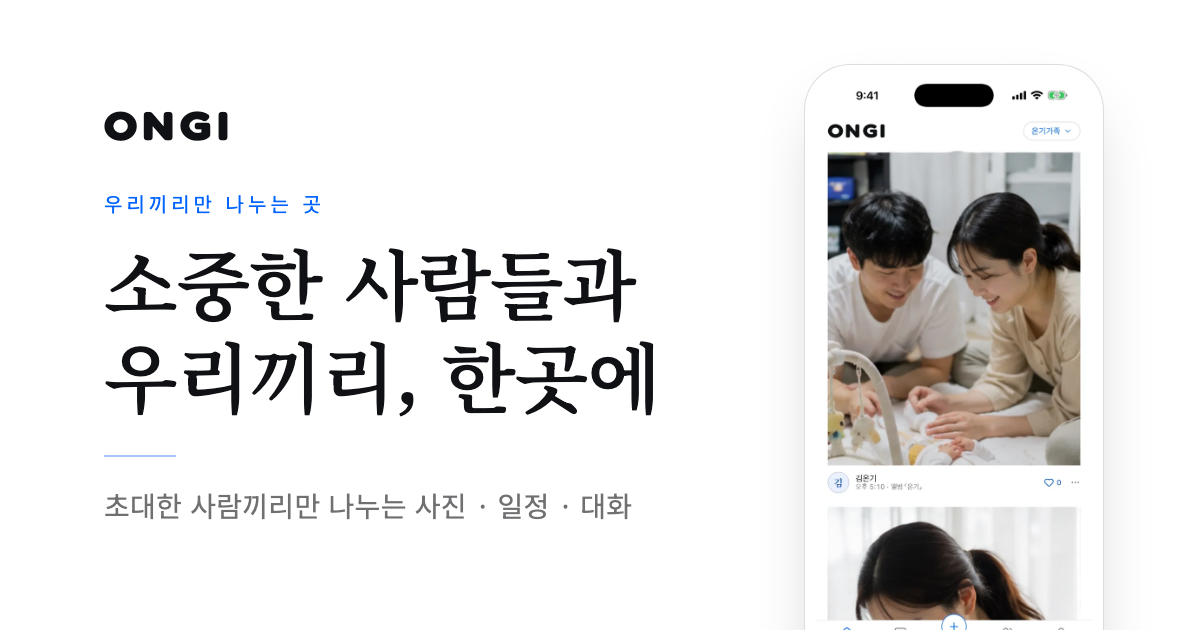
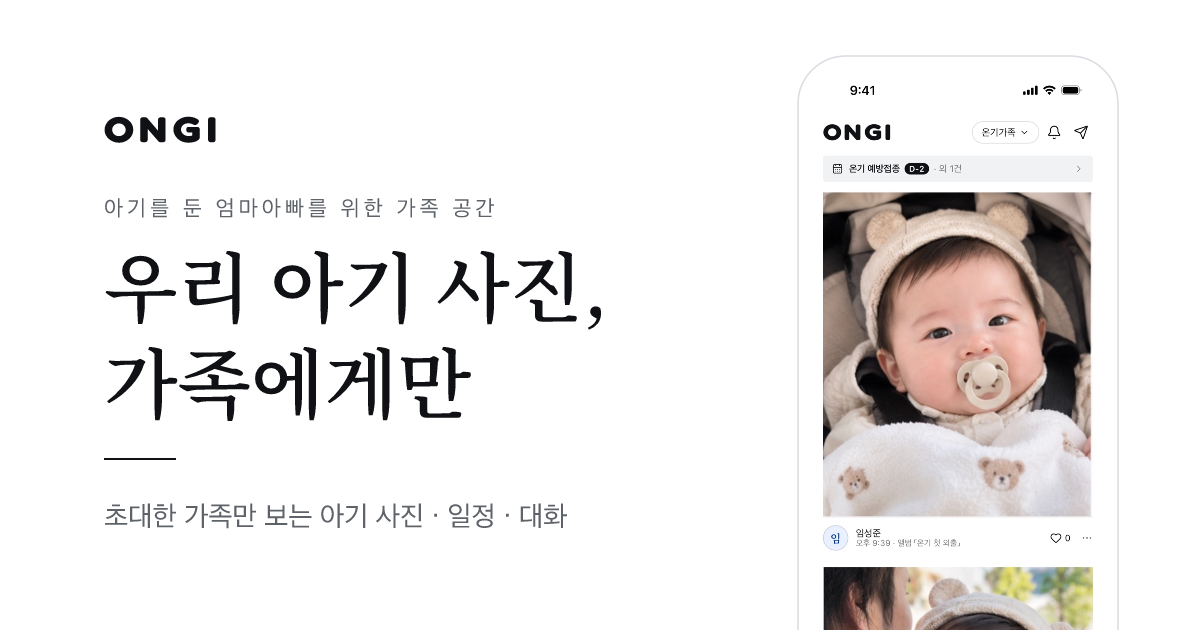
feat(landing): 아기 부모 대상으로 랜딩 재구성 — 우리 아기 사진, 가족에게만
- 구조: 히어로 → 공감 포인트 4개(묻힌다·사라진다·SNS·어르신) → 3단계 → 기능(실제 화면 3장 + 카드 5개) → 할머니 할아버지도 쉽게 → 마지막 다운로드
- 헤더: '소개' 제거, 스크롤해도 따라오는 고정 헤더. 앱 다운로드 버튼은 기기를 알아보면 그 스토어로, 아니면 다운로드 버튼으로 부드럽게 스크롤
- 색: 파란 강조색 제거, 검정·흰색 + 구역 바탕 따뜻한 회색(--color-warm)
- 스크린샷을 1.0.13 새 UI·아기 사진으로 교체 (가족 탭 초대 코드는 예시 숫자로 바꿈), 공유 미리보기 이미지 새 헤드라인으로 교체

diff --git a/src/app/page.tsx b/src/app/page.tsx
@@ -1,4 +1,4 @@
-import { CalendarDays, Heart, Images, Lock, MessageCircle, Users } from 'lucide-react';
+import { CalendarDays, Check, FolderHeart, Images, Lock, MessageCircle } from 'lucide-react';
 import type { Metadata } from 'next';
 import Image from 'next/image';
 import Link from 'next/link';
@@ -13,13 +13,38 @@ export const metadata: Metadata = {
   openGraph: { ...SITE_OPEN_GRAPH, url: '/' },
 };
 
+// 대상: 아기를 둔 엄마아빠가 조부모·친척에게 아기 사진을 나누는 것 (2026-10 재구성)
+const PAINS = [
+  ['단톡방에 올리면 금방 묻혀요', '어제 올린 사진을 다시 보려면 한참을 올려야 해요. 100일 사진이 어디 있는지 아무도 몰라요.'],
+  ['시간이 지나면 사라져요', '메신저 사진은 저장 기간이 지나면 열리지 않아요. 돌잔치 때 백일 사진을 찾으면 이미 없어요.'],
+  ['SNS는 남들 눈이 신경 쓰여요', '아기 얼굴을 모르는 사람에게까지 보여주고 싶진 않아요. 가족만 보면 충분해요.'],
+  ['할머니 할아버지는 앱이 어려워요', '가입하고 설정하는 것부터 막혀요. 그래서 결국 사진을 하나하나 보내드리게 돼요.'],
+];
+
+const STEPS = [
+  ['1', '엄마아빠가 공간을 만들고 올려요', '"우리 아기"처럼 이름을 붙이고, 오늘 찍은 사진과 영상을 한 번에 올려요.'],
+  ['2', '가족에게 초대 코드를 보내요', '메신저로 코드를 보내면, 가족은 앱을 받고 코드만 넣으면 끝이에요.'],
+  ['3', '가족은 따뜻해요와 한마디를 남겨요', '멀리 있는 할머니도 사진 한 장에 마음을 남겨요. 좋아요 대신 "따뜻해요".'],
+];
+
+const SHOTS = [
+  ['/landing/feed-smile.jpg', '온기 앱 홈 피드 — 아빠 품에서 웃는 아기', '오늘의 한 장이 차곡차곡', '올린 순서대로 날짜순으로 쌓여요.'],
+  ['/landing/feed-first-birthday.jpg', '온기 앱 홈 피드 — 첫돌 사진', '백일·돌도 한곳에', '특별한 날은 앨범으로 나눠 담아요.'],
+  ['/landing/schedule.jpg', '온기 앱 가족 일정 — 예방접종 일정이 등록된 달력', '예방접종·기념일 달력', '등록하면 가족이 함께 알림을 받아요.'],
+];
+
 const FEATURES = [
-  { Icon: Users, title: '초대한 사람만 들어와요', body: '초대 코드로만 들어올 수 있어요. 가족, 커플, 친구 모임 — 공간을 여러 개 만들어 따로 나눠요.' },
-  { Icon: Images, title: '우리끼리 사진첩', body: '사진과 영상을 한 번에 올리면 날짜순으로 쌓이고, 여행·기념일 앨범으로 정리돼요.' },
-  { Icon: MessageCircle, title: '1:1도, 여럿이서도 대화', body: '공간 사람과 바로 대화해요. 다른 공간 사람도 한 방에 초대하고, 누가 읽었는지 바로 보여요.' },
-  { Icon: CalendarDays, title: '함께 챙기는 일정', body: '생일, 기념일, 모임 날짜를 등록하면 함께 알림을 받아요. 음력·매년 반복도 돼요.' },
-  { Icon: Heart, title: '따뜻해요와 한마디', body: '멀리 있어도 사진 한 장에 마음을 남겨요. 좋아요 대신 "따뜻해요".' },
-  { Icon: Lock, title: '안심하고 나누기', body: '올린 사진과 대화는 공간 밖으로 공개되지 않고, 탈퇴하면 올린 사진이 삭제돼요.' },
+  { Icon: Images, title: '성장 기록이 날짜순으로', body: '올린 순서대로 하루하루 쌓여요. 뒤집기, 첫 이유식, 첫걸음을 나중에 다시 찾기 쉬워요. 영상도 함께 올려요.' },
+  { Icon: FolderHeart, title: '백일·돌 앨범', body: '백일, 돌잔치, 첫 여행처럼 특별한 날은 앨범으로 나눠 담아요. 가족 누구나 앨범에서 바로 찾아봐요.' },
+  { Icon: CalendarDays, title: '예방접종·기념일 알림', body: '백일, 돌, 예방접종 날짜를 등록하면 가족이 함께 알림을 받아요. 음력 생일과 매년 반복도 돼요.' },
+  { Icon: MessageCircle, title: '가족 대화', body: '사진 아래 한마디, 1:1과 단체 대화. 누가 읽었는지 바로 보여요.' },
+  { Icon: Lock, title: '공간 밖으로는 안 보여요', body: '초대한 사람만 들어오고, 올린 사진과 대화는 공간 밖으로 공개되지 않아요. 탈퇴하면 올린 사진이 삭제돼요.' },
+];
+
+const EASY = [
+  ['초대 코드 입력만 하면 들어와요', '받은 코드를 넣으면 바로 우리 아기 공간이 열려요. 복잡한 설정이 없어요.'],
+  ['사진이 크게, 최신 순으로', '앱을 열면 오늘 올라온 아기 사진이 바로 보여요. 찾아다닐 필요가 없어요.'],
+  ['탭 다섯 개로 단순하게', '홈, 앨범, 올리기, 가족, 나. 메뉴를 헤매지 않아요.'],
 ];
 
 // 검색 엔진용 구조화 데이터 — 앱 소개(무료, iOS·Android)
@@ -35,105 +60,148 @@ const JSON_LD = {
   sameAs: [APP_STORE_URL, GOOGLE_PLAY_URL],
 };
 
+/** 폰 테두리 안에 앱 스크린샷 한 장 (원본 1206×2622 → 720×1565) */
+function PhoneShot({ src, alt, size, preload = false }: { src: string; alt: string; size: 'lg' | 'md' | 'sm'; preload?: boolean }) {
+  const frame = {
+    lg: 'w-[240px] rounded-[36px] p-2 shadow-[0_24px_60px_-24px_rgba(16,17,20,0.25)] md:w-[280px]',
+    md: 'w-[240px] rounded-[32px] p-[7px] shadow-[0_18px_44px_-20px_rgba(16,17,20,0.22)]',
+    sm: 'w-[200px] rounded-[30px] p-1.5 shadow-[0_18px_44px_-20px_rgba(16,17,20,0.22)]',
+  }[size];
+  const inner = { lg: 'rounded-[28px]', md: 'rounded-[25px]', sm: 'rounded-[24px]' }[size];
+  return (
+    <div className={`mx-auto shrink-0 border border-divider bg-white ${frame}`}>
+      <Image src={src} alt={alt} width={720} height={1565} preload={preload} sizes="280px" className={`w-full ${inner}`} />
+    </div>
+  );
+}
+
 /** 공개 랜딩 — 웹은 소개 전용, 이용은 앱에서 */
 export default function LandingPage() {
   return (
-    <div className="flex min-h-screen flex-col">
+    // break-keep: 한글이 낱말 중간에서 끊기지 않게 (예: "사라져/요")
+    <div className="flex min-h-screen flex-col break-keep">
       <script type="application/ld+json" dangerouslySetInnerHTML={{ __html: JSON.stringify(JSON_LD).replace(/</g, '\\u003c') }} />
-      <header className="mx-auto flex w-full max-w-5xl items-center justify-between px-6 py-5">
-        <span className="inline-block origin-left scale-x-[1.15] text-2xl leading-none font-bold tracking-[0.12em] text-ink [font-family:var(--font-logo),sans-serif]">ONGI</span>
-        <nav className="flex items-center gap-5 text-sm text-neutral-700" aria-label="상단 메뉴">
-          <a href="#features" className="hidden hover:text-ink sm:inline">
-            소개
-          </a>
+      {/* 스크롤해도 따라오는 헤더 — 로고와 다운로드 버튼만 */}
+      <header className="sticky top-0 z-40 border-b border-divider bg-bg/90 backdrop-blur">
+        <div className="mx-auto flex w-full max-w-5xl items-center justify-between px-6 py-3.5">
+          <span className="inline-block origin-left scale-x-[1.15] text-2xl leading-none font-bold tracking-[0.12em] text-ink [font-family:var(--font-logo),sans-serif]">ONGI</span>
           <LandingCta variant="header" />
-        </nav>
+        </div>
       </header>
 
       <main className="flex-1">
-        <section className="mx-auto grid max-w-5xl items-center gap-12 px-6 pt-14 pb-16 md:grid-cols-[1fr_auto] md:gap-16 md:pt-20 md:pb-24">
+        <section className="mx-auto grid max-w-5xl items-center gap-12 px-6 pt-12 pb-16 md:grid-cols-[1fr_auto] md:gap-16 md:pt-16 md:pb-24">
           <div className="flex flex-col items-center text-center md:items-start md:text-left">
-            <p className="mb-4 text-[11px] tracking-[0.2em] text-accent">우리끼리만 나누는 곳</p>
-            <h1 className="font-serif text-4xl leading-tight font-semibold text-ink md:text-6xl">
-              소중한 사람들과
+            <p className="mb-4 text-xs tracking-[0.18em] text-neutral-700">아기를 둔 엄마아빠를 위한 가족 공간</p>
+            <h1 className="font-serif text-4xl leading-tight font-semibold text-ink md:text-[3.25rem]">
+              우리 아기 사진,
               <br />
-              우리끼리, 한곳에
+              가족에게만
             </h1>
-            <div className="my-6 h-px w-14 bg-accent-300" />
-            <p className="max-w-xl text-base leading-7 text-muted">
-              온기는 초대한 사람만 들어올 수 있는 공간이에요. 가족, 연인, 친한 친구와 사진을 모으고, 일정을 챙기고, 대화를 나눠요.
-              밖으로는 보이지 않는 우리만의 이야기.
+            <div className="my-7 h-px w-14 bg-ink" />
+            <p className="max-w-xl text-base leading-7 text-muted md:text-[17px] md:leading-[1.75]">
+              단톡방에 올리면 금방 묻히고, 시간이 지나면 사라지는 아기 사진. 온기에 올리면 날짜순으로 차곡차곡 쌓여 언제든 다시 꺼내 볼 수 있고,
+              초대한 가족만 볼 수 있어요. 할머니 할아버지는 초대 코드 하나로 들어와요.
             </p>
-            <div id={DOWNLOAD_SECTION_ID} className="mt-8 flex flex-col items-center gap-3 sm:flex-row">
+            <div id={DOWNLOAD_SECTION_ID} className="mt-8 flex w-full scroll-mt-24 flex-col items-center gap-3 sm:w-auto sm:flex-row">
               <LandingCta variant="hero" />
             </div>
-            <p className="mt-4 text-xs text-neutral-500">Apple·카카오·구글 계정으로 3초 만에 시작해요</p>
+            <p className="mt-4 text-xs text-neutral-600">무료 · 애플·카카오·구글 계정으로 3초 만에 시작해요</p>
           </div>
-          <div className="mx-auto w-[240px] shrink-0 rounded-[36px] border border-divider bg-white p-2 shadow-[0_24px_60px_-24px_rgba(16,17,20,0.25)] md:w-[280px]">
-            <Image
-              src="/landing/01-home.webp"
-              alt="온기 앱 홈 피드 화면"
-              width={640}
-              height={1386}
-              priority
-              className="w-full rounded-[28px]"
-            />
+          <PhoneShot src="/landing/home.jpg" alt="온기 앱 홈 피드 — 아기 사진과 예방접종 일정 배너" size="lg" preload />
+        </section>
+
+        <section className="border-t border-divider bg-warm">
+          <div className="mx-auto flex max-w-5xl flex-col gap-9 px-6 py-16 md:py-[72px]">
+            <h2 className="font-serif text-2xl font-semibold text-ink md:text-3xl">이런 적 있으시죠?</h2>
+            <div className="grid gap-5 sm:grid-cols-2 lg:grid-cols-4">
+              {PAINS.map(([title, body]) => (
+                <article key={title} className="flex flex-col gap-2.5 rounded-lg border border-divider bg-bg p-6">
+                  <h3 className="font-serif text-lg font-semibold text-ink">{title}</h3>
+                  <p className="text-sm leading-[1.7] text-muted">{body}</p>
+                </article>
+              ))}
+            </div>
           </div>
         </section>
 
-        <section id="features" className="border-t border-divider bg-neutral-100/60">
-          <div className="mx-auto grid max-w-5xl gap-8 px-6 py-16 sm:grid-cols-2 lg:grid-cols-3">
-            {FEATURES.map(({ Icon, title, body }) => (
-              <article key={title} className="flex flex-col gap-3">
-                <span className="flex h-10 w-10 items-center justify-center rounded-md border border-divider bg-bg text-accent">
-                  <Icon className="h-5 w-5" strokeWidth={1.5} />
-                </span>
-                <h2 className="font-serif text-lg font-semibold text-ink">{title}</h2>
-                <p className="text-sm leading-6 text-muted">{body}</p>
-              </article>
-            ))}
-          </div>
-        </section>
-
-        <section className="mx-auto max-w-5xl px-6 py-16">
-          <div className="grid gap-10 sm:grid-cols-2 lg:grid-cols-4">
-            {[
-              ['/landing/03-album-all.webp', '모든 순간을 한눈에', '함께 올린 사진이 앨범으로 차곡차곡 모여요.'],
-              // TODO: 채팅 화면 스크린샷이 생기면 이 칸을 '우리끼리 대화' (1:1도 그룹도, 안 읽은 사람 수까지 한눈에.) 로 바꾼다
-              ['/landing/02-albums.webp', '여행·기념일 앨범 정리', '여행, 기념일, 모임을 앨범으로 나눠 담아요.'],
-              ['/landing/05-schedule.webp', '일정까지 한곳에', '기념일과 모임을 등록하고 함께 챙겨요.'],
-              ['/landing/04-family.webp', '초대 코드 하나면 끝', '코드를 보내면 바로 함께해요.'],
-            ].map(([src, title, body]) => (
-              <figure key={src} className="flex flex-col items-center gap-4">
-                <div className="w-[200px] rounded-[30px] border border-divider bg-white p-1.5 shadow-[0_18px_44px_-20px_rgba(16,17,20,0.22)]">
-                  <Image src={src} alt={title} width={640} height={1386} className="w-full rounded-[24px]" />
-                </div>
-                <figcaption className="text-center">
-                  <p className="font-serif text-base font-semibold text-ink">{title}</p>
-                  <p className="mt-1 text-sm leading-6 text-muted">{body}</p>
-                </figcaption>
-              </figure>
-            ))}
-          </div>
-        </section>
-
-        <section className="border-t border-divider">
-          <div className="mx-auto max-w-5xl px-6 py-16">
-          <div className="grid gap-10 md:grid-cols-3">
-            {[
-              ['1', '공간 만들기', '계정으로 시작하고 "우리 가족", "우리 둘", "대학 동기"처럼 이름을 붙여 공간을 만들어요.'],
-              ['2', '초대 코드 나누기', '초대 코드를 메신저로 보내면 코드 입력만으로 바로 들어와요.'],
-              ['3', '사진·일정·대화 나누기', '사진을 올리고, 일정을 챙기고, 대화를 나눠요.'],
-            ].map(([step, title, body]) => (
+        <section className="mx-auto flex max-w-5xl flex-col gap-9 px-6 py-16 md:py-[72px]">
+          <h2 className="font-serif text-2xl font-semibold text-ink md:text-3xl">온기는 이렇게 써요</h2>
+          <div className="grid gap-8 md:grid-cols-3">
+            {STEPS.map(([step, title, body]) => (
               <div key={step} className="flex gap-4">
-                <span className="font-serif text-3xl font-semibold text-accent-300">{step}</span>
+                <span className="font-serif text-4xl leading-none font-semibold text-neutral-400">{step}</span>
                 <div>
-                  <h3 className="font-serif text-base font-semibold text-ink">{title}</h3>
-                  <p className="mt-1 text-sm leading-6 text-muted">{body}</p>
+                  <h3 className="font-serif text-[17px] font-semibold text-ink">{title}</h3>
+                  <p className="mt-1.5 text-sm leading-[1.7] text-muted">{body}</p>
                 </div>
               </div>
             ))}
           </div>
+        </section>
+
+        <section className="border-t border-divider bg-warm">
+          <div className="mx-auto flex max-w-5xl flex-col gap-10 px-6 py-16 md:py-[72px]">
+            <div className="flex flex-col gap-2.5">
+              <h2 className="font-serif text-2xl font-semibold text-ink md:text-3xl">아기의 하루를 담는 데 필요한 것만</h2>
+              <p className="text-[15px] leading-[1.7] text-muted">사진, 앨범, 일정, 대화. 복잡한 기능 없이 가족이 쓰는 네 가지예요.</p>
+            </div>
+            <div className="grid gap-10 sm:grid-cols-3">
+              {SHOTS.map(([src, alt, title, body]) => (
+                <figure key={src} className="flex flex-col items-center gap-4">
+                  <PhoneShot src={src} alt={alt} size="sm" />
+                  <figcaption className="text-center">
+                    <p className="font-serif text-base font-semibold text-ink">{title}</p>
+                    <p className="mt-1 text-sm leading-6 text-muted">{body}</p>
+                  </figcaption>
+                </figure>
+              ))}
+            </div>
+            <div className="grid gap-5 sm:grid-cols-2 lg:grid-cols-3">
+              {FEATURES.map(({ Icon, title, body }) => (
+                <article key={title} className="flex flex-col gap-3 rounded-lg border border-divider bg-bg p-6">
+                  <Icon className="h-[22px] w-[22px] text-ink" strokeWidth={1.5} aria-hidden />
+                  <h3 className="font-serif text-lg font-semibold text-ink">{title}</h3>
+                  <p className="text-sm leading-[1.7] text-muted">{body}</p>
+                </article>
+              ))}
+            </div>
+          </div>
+        </section>
+
+        <section className="mx-auto grid max-w-5xl items-center gap-12 px-6 py-16 md:grid-cols-[auto_1fr] md:gap-16 md:py-[72px]">
+          <PhoneShot src="/landing/family.jpg" alt="온기 앱 가족 탭 — 구성원과 초대 코드" size="md" />
+          <div className="flex flex-col gap-6">
+            <h2 className="font-serif text-2xl leading-snug font-semibold text-ink md:text-3xl md:leading-snug">
+              할머니 할아버지도
+              <br />
+              어렵지 않아요
+            </h2>
+            <ul className="flex flex-col gap-4">
+              {EASY.map(([title, body]) => (
+                <li key={title} className="flex items-start gap-3">
+                  <Check className="mt-1 h-[18px] w-[18px] shrink-0 text-ink" strokeWidth={1.75} aria-hidden />
+                  <div>
+                    <p className="font-serif text-base font-semibold text-ink">{title}</p>
+                    <p className="mt-0.5 text-sm leading-[1.6] text-muted">{body}</p>
+                  </div>
+                </li>
+              ))}
+            </ul>
+          </div>
+        </section>
+
+        <section className="bg-ink text-bg">
+          <div className="mx-auto flex max-w-5xl flex-col items-center gap-7 px-6 py-20 text-center">
+            <h2 className="font-serif text-3xl leading-snug font-semibold md:text-[34px]">
+              오늘 찍은 사진,
+              <br />
+              오늘 가족에게
+            </h2>
+            <p className="max-w-xl text-[15px] leading-[1.7] text-white/70">공간을 만들고 초대 코드를 보내면 바로 시작이에요. 무료예요.</p>
+            <div className="flex w-full flex-col items-center justify-center gap-3 sm:w-auto sm:flex-row">
+              <LandingCta variant="inverse" />
+            </div>
           </div>
         </section>
       </main>

diff --git a/src/components/landing/LandingCta.tsx b/src/components/landing/LandingCta.tsx
@@ -1,10 +1,13 @@
 'use client';
 
 import { useSyncExternalStore } from 'react';
-import { APP_STORE_URL, DOWNLOAD_PATH, GOOGLE_PLAY_URL, detectClientStorePlatform } from '@/lib/store';
+import { APP_STORE_URL, DOWNLOAD_PATH, DOWNLOAD_SECTION_ID, GOOGLE_PLAY_URL, detectClientStorePlatform } from '@/lib/store';
 
-const HERO_BUTTON_CLASS =
-  'inline-flex w-full min-w-[13.5rem] items-center justify-center gap-2 rounded-md bg-ink px-6 py-3 font-serif text-sm font-semibold text-bg hover:opacity-85 sm:w-auto';
+const BUTTON_BASE =
+  'inline-flex w-full min-w-[13.5rem] items-center justify-center gap-2 rounded-md px-6 py-3 font-serif text-sm font-semibold hover:opacity-85 sm:w-auto';
+const HERO_BUTTON_CLASS = `${BUTTON_BASE} bg-ink text-bg`;
+/** 검정 바탕 구역용 — 흰 버튼에 검정 글자 */
+const INVERSE_BUTTON_CLASS = `${BUTTON_BASE} bg-bg text-ink`;
 
 const subscribeNever = () => () => {};
 
@@ -15,27 +18,36 @@ function useStorePlatform() {
 
 /**
  * 랜딩 CTA — 웹은 랜딩 전용이라 로그인 대신 앱 다운로드만 안내.
- * header: 스마트 링크(/download)로 기기에 맞는 스토어에 바로 보낸다.
- * hero: 모바일은 자기 기기 스토어 버튼 하나, PC 는 두 스토어 버튼 모두.
+ * header: 기기를 알아보면 그 스토어로 바로, 못 알아보면(PC 등) 히어로의 다운로드 버튼으로 부드럽게 스크롤.
+ * hero · inverse: 모바일은 자기 기기 스토어 버튼 하나, PC 는 두 스토어 버튼 모두. inverse 는 검정 바탕용.
  */
-export function LandingCta({ variant }: { variant: 'header' | 'hero' }) {
+export function LandingCta({ variant }: { variant: 'header' | 'hero' | 'inverse' }) {
   const platform = useStorePlatform();
 
   if (variant === 'header') {
+    const storeUrl = platform === 'ios' ? APP_STORE_URL : platform === 'android' ? GOOGLE_PLAY_URL : null;
     return (
-      // next/link 를 쓰지 않는다 — 라우트 핸들러(리다이렉트)라 프리페치·클라이언트 전환 대상이 아니다
+      // 하이드레이션 전·스크립트 꺼짐에서는 /download(서버가 기기를 다시 판별)로 간다
       <a
-        href={DOWNLOAD_PATH}
-        className="rounded-md border border-accent px-3.5 py-1.5 font-serif text-[13px] font-semibold text-accent hover:bg-accent-100"
+        href={storeUrl ?? DOWNLOAD_PATH}
+        onClick={(e) => {
+          if (storeUrl) return;
+          const target = document.getElementById(DOWNLOAD_SECTION_ID);
+          if (!target) return;
+          e.preventDefault();
+          target.scrollIntoView({ behavior: 'smooth', block: 'center' });
+        }}
+        className="rounded-md border border-ink px-3.5 py-1.5 font-serif text-[13px] font-semibold text-ink hover:bg-neutral-100"
       >
         앱 다운로드
       </a>
     );
   }
+  const buttonClass = variant === 'inverse' ? INVERSE_BUTTON_CLASS : HERO_BUTTON_CLASS;
   return (
     <>
       {platform !== 'android' && (
-        <a href={APP_STORE_URL} target="_blank" rel="noopener noreferrer" className={HERO_BUTTON_CLASS}>
+        <a href={APP_STORE_URL} target="_blank" rel="noopener noreferrer" className={buttonClass}>
           {/* Apple 로고 —  글리프는 안드로이드에서 깨져서 SVG 사용 */}
           <svg aria-hidden viewBox="0 0 384 512" className="h-4 w-4 fill-current">
             <path d="M318.7 268.7c-.2-36.7 16.4-64.4 50-84.8-18.8-26.9-47.2-41.7-84.7-44.6-35.5-2.8-74.3 20.7-88.5 20.7-15 0-49.4-19.7-76.4-19.7C63.3 141.2 4 184.8 4 273.5q0 39.3 14.4 81.2c12.8 36.7 59 126.7 107.2 125.2 25.2-.6 43-17.9 75.8-17.9 31.8 0 48.3 17.9 76.4 17.9 48.6-.7 90.4-82.5 102.6-119.3-65.2-30.7-61.7-90-61.7-91.9zm-56.6-164.2c27.3-32.4 24.8-61.9 24-72.5-24.1 1.4-52 16.4-67.9 34.9-17.5 19.8-27.8 44.3-25.6 71.9 26.1 2 49.9-11.4 69.5-34.3z" />
@@ -44,7 +56,7 @@ export function LandingCta({ variant }: { variant: 'header' | 'hero' }) {
         </a>
       )}
       {platform !== 'ios' && (
-        <a href={GOOGLE_PLAY_URL} target="_blank" rel="noopener noreferrer" className={HERO_BUTTON_CLASS}>
+        <a href={GOOGLE_PLAY_URL} target="_blank" rel="noopener noreferrer" className={buttonClass}>
           {/* Google Play 삼각 로고 — 단색(현재 글자색) */}
           <svg aria-hidden viewBox="0 0 512 512" className="h-4 w-4 fill-current">
             <path d="M325.3 234.3 104.6 13l280.8 161.2-60.1 60.1zM47 0C34 6.8 25.3 19.2 25.3 35.3v441.3c0 16.1 8.7 28.5 21.7 35.3l256.6-256L47 0zm425.2 225.6-58.9-34.1-65.7 64.5 65.7 64.5 60.1-34.1c18-14.3 18-46.5-1.2-60.8zM104.6 499l280.8-161.2-60.1-60.1L104.6 499z" />

diff --git a/src/app/globals.css b/src/app/globals.css
@@ -4,6 +4,8 @@
 @theme {
   --color-bg: #ffffff;
   --color-surface: #f1f2f4;
+  /* 랜딩 구역 구분용 따뜻한 회색 */
+  --color-warm: #f4f2ee;
   --color-ink: #101114;
   --color-muted: rgba(16, 17, 20, 0.55);
   --color-divider: rgba(16, 17, 20, 0.14);
